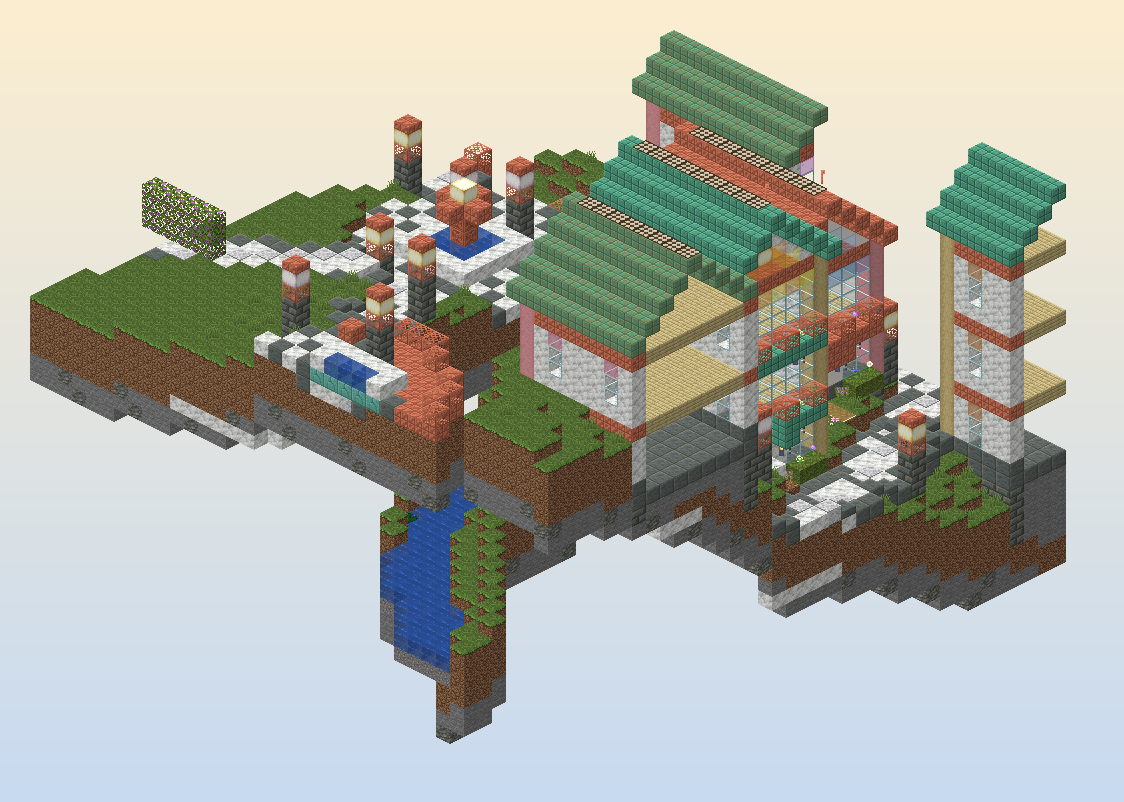
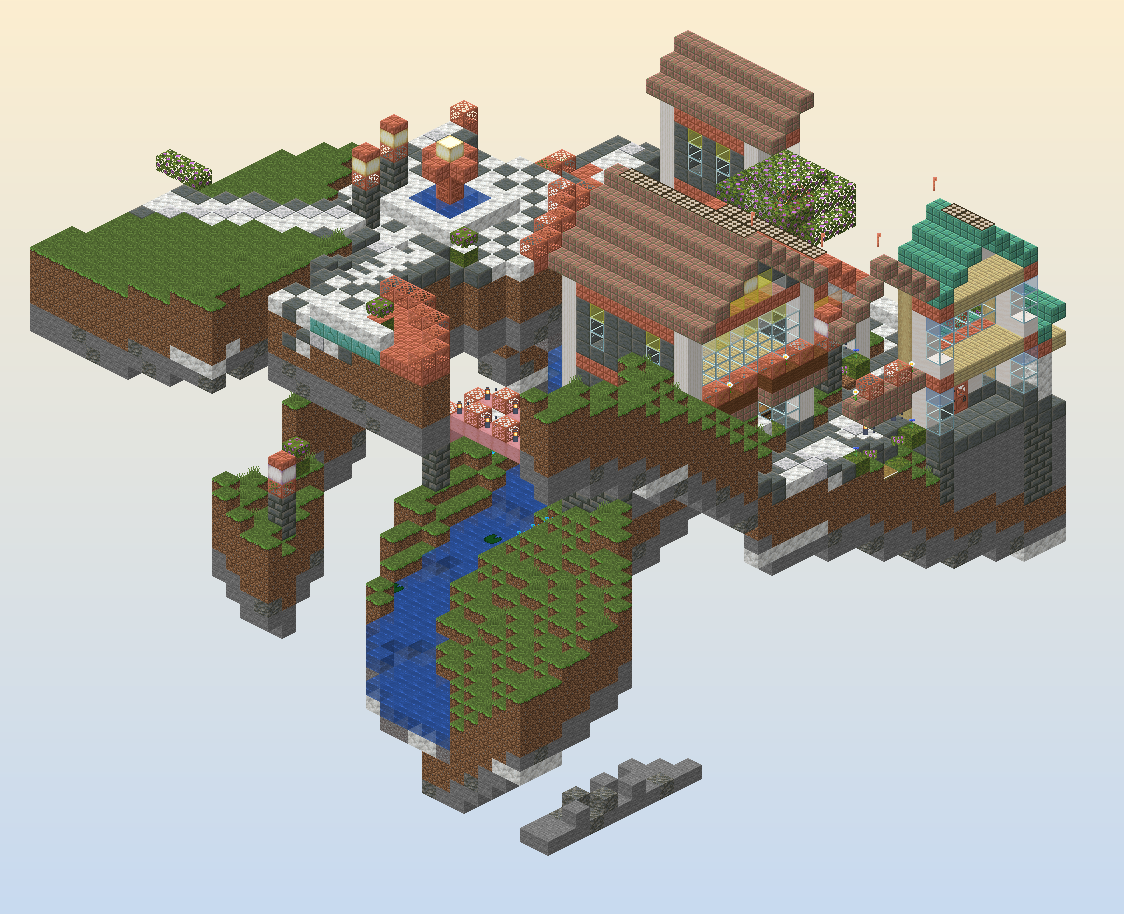
Solsticio draft 5: 181 buildings (row houses and cottages), river valley, planters

diff --git a/art/solsticio/city5.py b/art/solsticio/city5.py
@@ -336,7 +336,7 @@ def fountain(cx, h, cz):
 def lamps():
     n = 0
     for (pts, sm, width, kind) in PATHS:
-        for i in range(0, len(pts), 22):
+        for i in range(0, len(pts), 34):
             x, z = pts[i]
             if i + 1 >= len(pts):
                 break
@@ -357,6 +357,15 @@ def lamps():
             V[(c[0], h + 5, c[1])] = B('ochre_froglight' if n % 3 else 'pearlescent_froglight')
             V[(c[0], h + 6, c[1])] = B('waxed_cut_copper_slab[type=bottom,waterlogged=false]')
             USED.add(c)
+            j = i + 17
+            if j + 1 < len(pts):
+                x2, z2 = pts[j]
+                c2 = (round(x2 - nx * side * (width / 2 + 0.6)), round(z2 - nz * side * (width / 2 + 0.6)))
+                if c2 in HEIGHT and (c2 not in USED or c2 in ROAD):
+                    h2 = ROAD[c2][0] if c2 in ROAD else HEIGHT[c2]
+                    V[(c2[0], h2 + 1, c2[1])] = B('moss_block')
+                    V[(c2[0], h2 + 2, c2[1])] = B('flowering_azalea')
+                    USED.add(c2)
 
 
 # ---------------- buildings ----------------
@@ -390,20 +399,21 @@ STYLES = [
 ]
 
 
-def building(kind, st, floors):
-    """Local frame: u across the street (-4..4), w depth (0 = front; 'north' faces the street),
-    y from the foundation (0). Symmetric across u = 0 except the ladder and the bed."""
+def building(kind, st, floors, hw=4, D=9):
+    """Local frame: u across the street (-hw..hw), w depth (0 = front; 'north' faces the street),
+    y from the foundation (0). Mirror-symmetric across u = 0 except the ladder and the bed."""
     L, marks = {}, []
     top = 5 * floors
     wall, roof = B(st['wall']), st['roof']
     trim = B(st['trim'] + '[axis=y]')
     g1, g2 = B(st['glass'][0] + '_stained_glass'), B(st['glass'][1] + '_stained_glass')
     shop = kind.startswith('shop:')
-    for u in range(-4, 5):
-        for w in range(0, 9):
+    back = D - 1
+    for u in range(-hw, hw + 1):
+        for w in range(0, D):
             L[(u, 0, w)] = B('polished_tuff')
-            edge = abs(u) == 4 or w in (0, 8)
-            corner = abs(u) == 4 and w in (0, 8)
+            edge = abs(u) == hw or w in (0, back)
+            corner = abs(u) == hw and w in (0, back)
             for y in range(1, top + 1):
                 band = y % 5 == 0
                 if edge:
@@ -411,108 +421,116 @@ def building(kind, st, floors):
                         B('polished_tuff') if y == 1 else wall
                 else:
                     L[(u, y, w)] = B('birch_planks') if band else AIR
-    for s in range(floors):
-        y0 = 5 * s
-        if s == 0:
+    flower = ('azure_bluet', 'allium', 'cornflower', 'oxeye_daisy', 'lily_of_the_valley', 'blue_orchid')
+    for s_ in range(floors):
+        y0 = 5 * s_
+        if s_ == 0:
             if shop:
-                for u in (-3, -2, -1, 1, 2, 3):
-                    for y in (1, 2, 3):
-                        L[(u, y, 0)] = B('glass')
+                for u in range(-(hw - 1), hw):
+                    if u:
+                        for y in (1, 2, 3):
+                            L[(u, y, 0)] = B('glass')
             else:
-                for u in (-3, -2, 2, 3):
-                    for y in (2, 3):
-                        L[(u, y, 0)] = PANE_U
-                    L[(u, 4, 0)] = g1 if abs(u) == 2 else g2
-                    L[(u, 1, -1)] = B('moss_block')
-                    L[(u, 2, -1)] = B(('azure_bluet', 'allium', 'cornflower', 'oxeye_daisy')[(abs(u) + len(st['glass'][0])) % 4])
+                for u in range(2, hw):
+                    for sg in (-1, 1):
+                        for y in (2, 3):
+                            L[(sg * u, y, 0)] = PANE_U
+                        L[(sg * u, 4, 0)] = g1 if u == 2 else g2
+                        L[(sg * u, 1, -1)] = B('moss_block')
+                        L[(sg * u, 2, -1)] = B(flower[(u + len(st['glass'][0])) % len(flower)])
         else:
-            for u in range(-3, 4):
+            for u in range(-(hw - 1), hw):
                 for y in (y0 + 1, y0 + 2, y0 + 3):
                     L[(u, y, 0)] = B('glass') if u == 0 else PANE_U
                 L[(u, y0 + 4, 0)] = g1 if u % 2 == 0 else g2
                 L[(u, y0, -1)] = B(roof + '_slab[type=top,waterlogged=false]')
-                if abs(u) in (1, 3):
+                if abs(u) % 2 == 1:
                     L[(u, y0 + 1, -1)] = B('waxed_copper_grate')
-                elif abs(u) == 2:
-                    L[(u, y0 + 1, -1)] = B('potted_azure_bluet' if st['glass'][0] in ('yellow', 'orange') else 'potted_allium')
-            for u in (-2, 2):
+                else:
+                    L[(u, y0 + 1, -1)] = B('potted_' + flower[(abs(u) + s_) % len(flower)]) if u else AIR
+            for u in (-(hw - 2), hw - 2):
                 L[(u, y0 - 1, -1)] = HANG
-        for w in (2, 6):
-            if shop and s == 0 and w == 6:
+        for w in (2, back - 2):
+            if shop and s_ == 0 and w == back - 2:
                 continue
             for y in (y0 + 2, y0 + 3):
-                L[(-4, y, w)] = PANE_W
-                L[(4, y, w)] = PANE_W
-            L[(-4, y0 + 4, w)] = g1
-            L[(4, y0 + 4, w)] = g1
-        for u in (-2, -1, 1, 2):
-            for y in (y0 + 2, y0 + 3):
-                L[(u, y, 8)] = PANE_U
-            L[(u, y0 + 4, 8)] = g2
-    # the door with a stained-glass transom and hanging lanterns
+                L[(-hw, y, w)] = PANE_W
+                L[(hw, y, w)] = PANE_W
+            L[(-hw, y0 + 4, w)] = g1
+            L[(hw, y0 + 4, w)] = g1
+        for u in range(-(hw - 2), hw - 1):
+            if u:
+                for y in (y0 + 2, y0 + 3):
+                    L[(u, y, back)] = PANE_U
+                L[(u, y0 + 4, back)] = g2
     L[(0, 1, 0)] = B('waxed_copper_door[facing=south,half=lower,hinge=left,open=false,powered=false]')
     L[(0, 2, 0)] = B('waxed_copper_door[facing=south,half=upper,hinge=left,open=false,powered=false]')
     L[(0, 3, 0)] = g1
     L[(0, 4, 0)] = B('ochre_froglight')
     if shop:
         carpet, band, shelf = SHOP_STYLE[kind.split(':')[1]]
-        for u in range(-3, 4):
+        for u in range(-(hw - 1), hw):
             if u:
                 L[(u, 4, 0)] = B(band)
-        for u in range(-4, 5):
+        for u in range(-hw, hw + 1):
             L[(u, 4, -1)] = B(roof + '_slab[type=top,waterlogged=false]')
             L[(u, 5, -1)] = B(carpet + '_carpet')
         for u in (-2, 2):
             L[(u, 1, 1)] = B(shelf)
             L[(u, 2, 1)] = B('lantern[hanging=false,waterlogged=false]')
         for u in range(-2, 3):
-            L[(u, 1, 4)] = B('stripped_birch_wood[axis=x]')
-        for u in range(-3, 3):
+            L[(u, 1, D // 2)] = B('stripped_birch_wood[axis=x]')
+        for u in range(-(hw - 1), hw - 1):
             for y in (1, 2, 3):
-                L[(u, y, 7)] = B(shelf)
-        marks.append((kind, (0, 1, 6)))
+                L[(u, y, back - 1)] = B(shelf)
+        marks.append((kind, (0, 1, back - 2)))
     else:
         for u in (-1, 0, 1):
             L[(u, 4, -1)] = B(roof + '_slab[type=top,waterlogged=false]')
         for u in (-1, 1):
             L[(u, 3, -1)] = HANG
             L[(u, 1, -1)] = B('potted_flowering_azalea_bush')
-        L[(-3, 1, 7)] = B('crafting_table')
-        L[(-3, 1, 6)] = B('barrel[facing=up,open=false]')
+        L[(-(hw - 1), 1, back - 1)] = B('crafting_table')
+        L[(-(hw - 1), 1, back - 2)] = B('barrel[facing=up,open=false]')
         if kind == 'inn':
             for u in (-2, 2):
                 L[(u, 1, 3)] = B('barrel[facing=up,open=false]')
                 L[(u, 1, 2)] = B('birch_stairs[facing=south,half=bottom,shape=straight,waterlogged=false]')
-            marks.append(('inn', (0, 1, 5)))
-    L[(0, 4, 4)] = B('pearlescent_froglight')
+            marks.append(('inn', (0, 1, back - 3)))
+    L[(0, 4, D // 2)] = B('pearlescent_froglight')
     for y in range(1, top):
-        L[(3, y, 7)] = B('ladder[facing=west,waterlogged=false]')
-    L[(-2, 6, 5)] = B(st['bed'] + '_bed[facing=south,occupied=false,part=foot]')
-    L[(-2, 6, 6)] = B(st['bed'] + '_bed[facing=south,occupied=false,part=head]')
+        L[(hw - 1, y, back - 1)] = B('ladder[facing=west,waterlogged=false]')
+    L[(-(hw - 2), 6, back - 3)] = B(st['bed'] + '_bed[facing=south,occupied=false,part=foot]')
+    L[(-(hw - 2), 6, back - 2)] = B(st['bed'] + '_bed[facing=south,occupied=false,part=head]')
     if kind == 'resident':
-        marks.append(('resident', (0, 6, 3)))
+        marks.append(('resident', (0, 6, 2)))
     # roof with a solar ridge; sun rosettes in both gables
-    for r in range(0, 5):
+    for r in range(0, hw + 1):
         y = top + 1 + r
-        for w in range(-1, 10):
-            if r < 4:
-                L[(4 - r, y, w)] = B(roof + '_stairs[facing=west,half=bottom,shape=straight,waterlogged=false]')
-                L[(-(4 - r), y, w)] = B(roof + '_stairs[facing=east,half=bottom,shape=straight,waterlogged=false]')
+        for w in range(-1, D + 1):
+            if r < hw:
+                L[(hw - r, y, w)] = B(roof + '_stairs[facing=west,half=bottom,shape=straight,waterlogged=false]')
+                L[(-(hw - r), y, w)] = B(roof + '_stairs[facing=east,half=bottom,shape=straight,waterlogged=false]')
             else:
                 L[(0, y, w)] = B(roof)
-                if 0 <= w <= 8:
+                if 0 <= w <= back:
                     L[(0, y + 1, w)] = B('daylight_detector[inverted=false,power=0]')
-        if r < 4:
-            for u in range(-(3 - r), 4 - r):
-                for w in (0, 8):
+        if r < hw:
+            for u in range(-(hw - 1 - r), hw - r):
+                for w in (0, back):
                     L[(u, y, w)] = wall
-    for w in (0, 8):
-        for u, blk in ((-2, g2), (-1, g1), (0, g1), (1, g1), (2, g2)):
-            L[(u, top + 1, w)] = blk
-        for u, blk in ((-1, g1), (0, B('ochre_froglight')), (1, g1)):
-            L[(u, top + 2, w)] = blk
-        L[(0, top + 3, w)] = g2
-    L[(0, top + 7, -1)] = B('lightning_rod[facing=up,powered=false,waterlogged=false]')
+    for w in (0, back):
+        if hw >= 4:
+            for u, blk in ((-2, g2), (-1, g1), (0, g1), (1, g1), (2, g2)):
+                L[(u, top + 1, w)] = blk
+            for u, blk in ((-1, g1), (0, B('ochre_froglight')), (1, g1)):
+                L[(u, top + 2, w)] = blk
+            L[(0, top + 3, w)] = g2
+        else:
+            for u, blk in ((-1, g2), (0, g1), (1, g2)):
+                L[(u, top + 1, w)] = blk
+            L[(0, top + 2, w)] = B('ochre_froglight')
+    L[(0, top + hw + 3, -1)] = B('lightning_rod[facing=up,powered=false,waterlogged=false]')
     return L, marks
 
 
@@ -561,7 +579,7 @@ def lots():
 
 def assign_kinds():
     """The 16 shops take the street-front lots nearest the centre; four inns, one per quadrant."""
-    front = sorted((i for i, l in enumerate(LOTS) if l[5].startswith('road:')),
+    front = sorted((i for i, l in enumerate(LOTS) if l[5].startswith('road:') and l[7] == 4),
                    key=lambda i: math.hypot(LOTS[i][0], LOTS[i][1]))
     kinds = {}
     for n, i in enumerate(front[:len(SHOP_TYPES)]):
@@ -609,13 +627,17 @@ def infill():
         dd = dist[door]
         if door in USED and door not in PATHCELLS:
             continue
-        for s in sorted(dirs, key=lambda v: _h(door[0] + v[0], door[1] + v[1], 22)):
+        placed = False
+        for (hw, D) in ((4, 9), (3, 7)):
+          if placed:
+            break
+          for s in sorted(dirs, key=lambda v: _h(door[0] + v[0], door[1] + v[1], 22)):
             back = (door[0] - s[0], door[1] - s[1])
             if back not in dist or dist[back] >= dd:
                 continue
             e = (s[1], -s[0])
             fx, fz = door[0] + s[0], door[1] + s[1]
-            cells = [(fx + u * e[0] + w * s[0], fz + u * e[1] + w * s[1]) for u in range(-4, 5) for w in range(0, 9)]
+            cells = [(fx + u * e[0] + w * s[0], fz + u * e[1] + w * s[1]) for u in range(-hw, hw + 1) for w in range(0, D)]
             if any(c not in HEIGHT or c in USED or c in RIVER for c in cells):
                 continue
             if not all(inside(c[0], c[1], 4) for c in cells[::8]):
@@ -624,7 +646,7 @@ def infill():
             pad = ROAD[back][0] if back in ROAD else HEIGHT[door]
             if max(hs) - pad > 7 or pad - min(hs) > 9:
                 continue
-            LOTS.append((fx, fz, s, e, pad, 'road:front' if dd <= 2 else 'infill', len(LOTS)))
+            LOTS.append((fx, fz, s, e, pad, 'road:front' if dd <= 2 else 'infill', len(LOTS), hw, D))
             for c in cells:
                 USED.add(c)
             c = door
@@ -636,6 +658,7 @@ def infill():
                     break
                 c = parent[c]
                 steps += 1
+            placed = True
             break
 
 
@@ -672,40 +695,46 @@ def river():
             x = x0 + (x1 - x0) * t + 4 * math.sin(i * 2.3 + t * 5.1)
             z = z0 + (z1 - z0) * t + 4 * math.cos(i * 1.7 + t * 4.3)
             pts.append((x, z))
-    level = None
-    for (x, z) in pts:
+    inland = [p for p in pts if (round(p[0]), round(p[1])) in HEIGHT]
+    if not inland:
+        return
+    L0 = HEIGHT[(round(inland[0][0]), round(inland[0][1]))] - 2
+    L1 = HEIGHT[(round(inland[-1][0]), round(inland[-1][1]))] - 2
+    seen_inland = False
+    for idx, (x, z) in enumerate(pts):
         c = (round(x), round(z))
         if c not in HEIGHT:
-            if level is not None:
+            if seen_inland:
                 RIVER_END.append(c)
                 break
             continue
-        g = HEIGHT[c] if c not in ROAD else min(HEIGHT[c], ROAD[c][0] - 3)
-        level = g - 1 if level is None else min(level, g - 1)
-        for dx in range(-4, 5):
-            for dz in range(-4, 5):
+        seen_inland = True
+        t = inland.index((x, z)) / max(1, len(inland) - 1) if (x, z) in inland else 0
+        level = round(L0 + (L1 - L0) * t)
+        if c in ROAD:
+            level = min(level, ROAD[c][0] - 3)
+        for dx in range(-7, 8):
+            for dz in range(-7, 8):
                 dd = math.hypot(dx + c[0] - x, dz + c[1] - z)
                 n = (c[0] + dx, c[1] + dz)
                 if n not in HEIGHT:
                     continue
-                if dd <= 1.7:
+                if dd <= 1.8:
                     RIVER[n] = min(RIVER.get(n, level), level)
-                elif dd <= 3.6 and n not in ROAD:
-                    HEIGHT[n] = min(HEIGHT[n], level + 1 + int(dd > 2.8))
+                elif n not in ROAD and n not in USED:
+                    HEIGHT[n] = min(HEIGHT[n], level + round((dd - 1.2) * 0.9))
     for (x, z), lvl in RIVER.items():
         on_road = (x, z) in ROAD
         top = ROAD[(x, z)][0] if on_road else HEIGHT[(x, z)]
-        for y in range(lvl + 1, top + (0 if on_road else 1)):
+        for y in range(lvl + 1, max(top, lvl) + 1):
             V.pop((x, y, z), None)
         V[(x, lvl, z)] = B('water')
         r = _h(x, z, 41)
         V[(x, lvl - 1, z)] = B('sea_lantern') if r < 0.05 else B('calcite') if r < 0.35 else B('gravel')
         if on_road:
             V[(x, top, z)] = B('waxed_cut_copper')
-            for dx, dz in ((1, 0), (-1, 0), (0, 1), (0, -1)):
-                nb = (x + dx, z + dz)
-                if nb in RIVER and nb not in ROAD:
-                    V[(x, top + 1, z)] = B('waxed_copper_grate')
+            if any((x + dx, z + dz) not in ROAD for dx, dz in ((1, 0), (-1, 0), (0, 1), (0, -1))):
+                V[(x, top + 1, z)] = B('waxed_copper_grate')
         else:
             HEIGHT[(x, z)] = lvl
             if _h(x, z, 43) < 0.06:
@@ -754,18 +783,18 @@ def footbridges():
 
 
 def place_lots():
-    for (fx, fz, s, e, pad, bkind, idx) in LOTS:
+    for (fx, fz, s, e, pad, bkind, idx, hw, D) in LOTS:
         st = STYLES[idx % len(STYLES)]
-        floors = 2 if bkind.startswith('shop:') else 2 + (idx % 3 == 1)
-        L, marks = building(bkind, st, floors)
+        floors = 2 if bkind.startswith('shop:') else (2 + (idx % 3 == 1) if hw == 4 else 1 + (idx % 2))
+        L, marks = building(bkind, st, floors, hw, D)
         f = lambda v: (v[0] * e[0] + v[1] * s[0], v[0] * e[1] + v[1] * s[1])
         # plinth: fill down to the ground under the footprint and cut the ground above the pad
-        for u in range(-4, 5):
-            for w in range(0, 9):
+        for u in range(-hw, hw + 1):
+            for w in range(0, D):
                 x, z = fx + u * e[0] + w * s[0], fz + u * e[1] + w * s[1]
                 g = HEIGHT.get((x, z), pad)
                 for y in range(min(g, pad) - 1, pad):
-                    V[(x, y, z)] = B('tuff_bricks' if (u in (-4, 4) or w in (0, 8)) else 'stone')
+                    V[(x, y, z)] = B('tuff_bricks' if (u in (-hw, hw) or w in (0, D - 1)) else 'stone')
                 for y in range(pad + 1, max(g, pad) + 1):
                     V.pop((x, y, z), None)
                 HEIGHT[(x, z)] = pad
